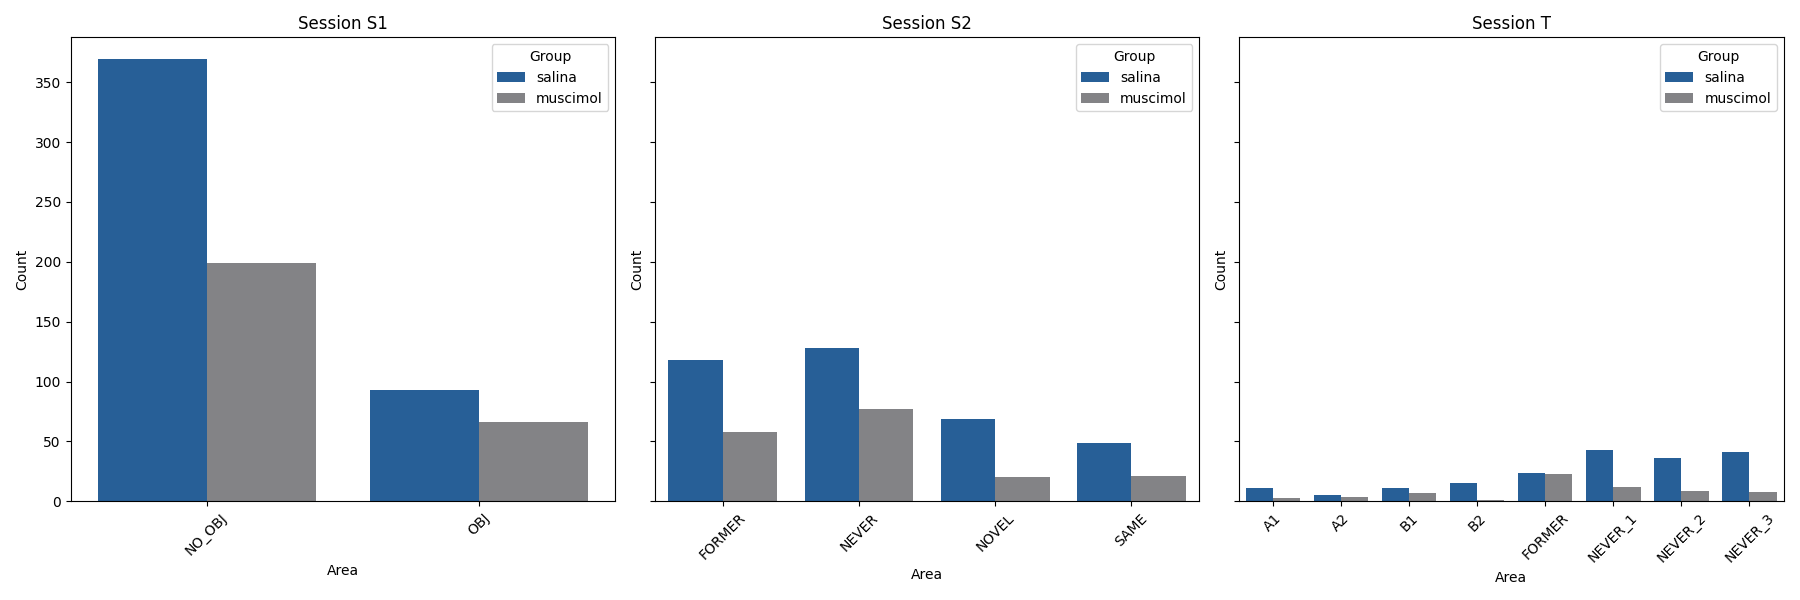
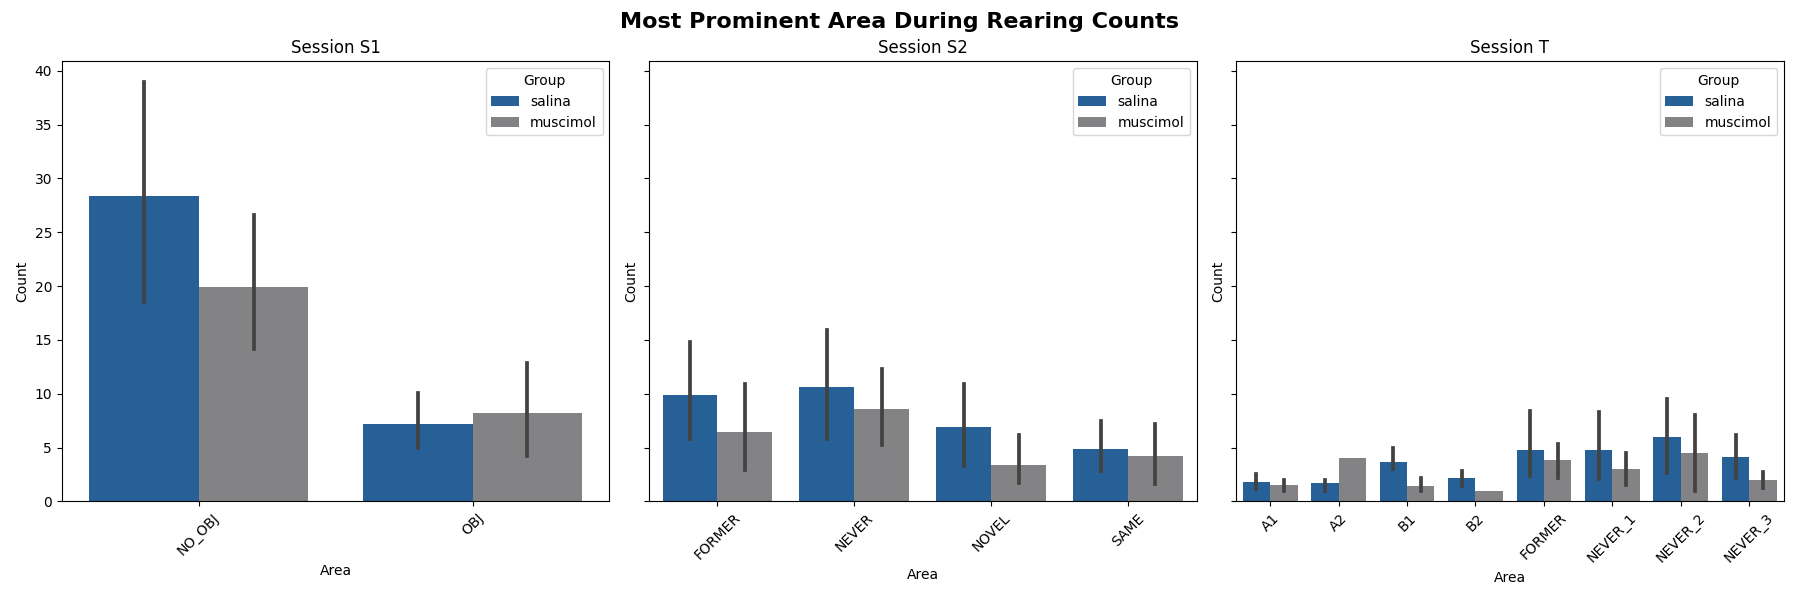
analysis

diff --git a/scripts/rearing_zone/rearing_zone.py b/scripts/rearing_zone/rearing_zone.py
@@ -4,10 +4,15 @@ import numpy as np
 import matplotlib.pyplot as plt
 import seaborn as sns
 from scripts.utils import load_data, get_area_and_direction_columns, fig_path, session_types, get_rearing, groups, group_areas_and_directions
-from scripts.rearing_zone.plots import plot_rearing_episode, plot_mean_duration, plot_sum_duration, plot_total_episodes, plot_area_during_rearing_counts
+from scripts.rearing_zone.plots import (
+    plot_rearing_episode, plot_mean_duration, plot_sum_duration, plot_total_episodes, 
+    plot_area_during_rearing_counts, plot_area_during_rearing_mean_duration, 
+    plot_area_after_rearing_durations
+)
 
 fps = 30
-after_rearing_window = 10 # seconds
+after_rearing_window_start = 2 # seconds
+after_rearing_window_time = 10 # seconds
 
 def calculate_durations(video_df):
     video_df = video_df.sort_values('frame').reset_index(drop=True)
@@ -31,44 +36,70 @@ def calculate_durations(video_df):
     ends = ends[valid_mask]
     if len(starts) == 0:
         return None
+
+    total_area_durations = video_df[area_columns].sum() / fps
     
     total_episodes = len(starts)
     durations = (ends - starts) / fps
-    
-    after_rearing_window_frames = after_rearing_window * fps
 
     area_during_rearing = []
-    area_during_rearing_ratio = []
+    # area_during_rearing_ratio = []
     for start, end in zip(starts, ends):
         episode_areas = video_df.loc[start:end-1, area_columns]
         area_sums = episode_areas.sum()
         most_prominent_area = area_sums.idxmax()
-        total_sum = area_sums.sum()
-        most_prominent_area_ratio = area_sums[most_prominent_area] / total_sum
         area_during_rearing.append(most_prominent_area)
-        area_during_rearing_ratio.append(most_prominent_area_ratio)
+        # total_sum = area_sums.sum()
+        # most_prominent_area_ratio = area_sums[most_prominent_area] / total_sum
+        # area_during_rearing_ratio.append(most_prominent_area_ratio)
     area_during_rearing = np.array(area_during_rearing)
     area_during_rearing_counts = pd.Series(area_during_rearing).value_counts()
+    
+    df_areas_during_rearing_durations = pd.DataFrame({'area': area_during_rearing, 'duration': durations})
+    area_during_rearing_mean_duration = df_areas_during_rearing_durations.groupby('area')['duration'].mean()
+    df_areas_during_rearing_durations_normalized = pd.DataFrame({'area': area_during_rearing, 'duration': durations / total_area_durations[area_during_rearing]})
+    area_during_rearing_mean_duration_normalized = df_areas_during_rearing_durations_normalized.groupby('area')['duration'].mean()
 
+    after_rearing_window_start_frames = after_rearing_window_start * fps
+    after_rearing_window_frames = after_rearing_window_time * fps
     # Considerar apenas os finais que não têm início de outro rearing na window
     valid_rearing_ends = []
     for end in ends:
-        window_start = end
-        window_end = end + after_rearing_window_frames
+        window_start = end + after_rearing_window_start_frames
+        window_end = window_start + after_rearing_window_frames
         next_starts = starts[starts >= window_start]
+        if window_end > len(video_df):
+            continue
         if len(next_starts) == 0 or next_starts[0] >= window_end:
             valid_rearing_ends.append(end)
     valid_rearing_ends = np.array(valid_rearing_ends)
 
+    after_rearing_area_sums = []
+    for end in valid_rearing_ends:
+        window_start = end + after_rearing_window_start_frames
+        window_end = window_start + after_rearing_window_frames
+        window_areas = video_df.loc[window_start:window_end-1, area_columns]
+        area_sums = window_areas.sum()
+        after_rearing_area_sums.append(area_sums)
+    
+    if len(after_rearing_area_sums) > 0:
+        area_after_rearing_durations = pd.DataFrame(after_rearing_area_sums) / fps
+        area_after_rearing_durations_normalized = (pd.DataFrame(after_rearing_area_sums) / fps) / total_area_durations
+    else:
+        area_after_rearing_durations = pd.DataFrame(dtype=float)
 
-    
-    # print(video_df[area_columns])
-    # print(video_df[starts])
 
-    # print(video_df.head())
-    
-    
-    return np.mean(durations), np.sum(durations), total_episodes, area_during_rearing_counts, rearing
+    return (
+        np.mean(durations),
+        np.sum(durations),
+        total_episodes,
+        area_during_rearing_counts,
+        area_during_rearing_mean_duration,
+        area_during_rearing_mean_duration_normalized,
+        area_after_rearing_durations,
+        area_after_rearing_durations_normalized,
+        rearing
+    )
     
 def process_video(group_df):
     result = calculate_durations(group_df)
@@ -76,12 +107,14 @@ def process_video(group_df):
     if result is None:
         return None
     
-    mean_dur, sum_dur, total_episodes, area_during_rearing_counts, rearing_arr = result
+    mean_dur, sum_dur, total_episodes, area_during_rearing_counts, area_during_rearing_mean_duration, area_after_rearing_durations, rearing_arr = result
     return pd.Series({
         'mean_duration': mean_dur,
         'sum_duration': sum_dur,
         'total_episodes': total_episodes,
         'area_during_rearing_counts': area_during_rearing_counts,
+        'area_during_rearing_mean_duration': area_during_rearing_mean_duration,
+        'area_after_rearing_durations': area_after_rearing_durations,
         'rearing_array': rearing_arr
     })
     
@@ -103,6 +136,8 @@ def main():
     plot_sum_duration(result)
     plot_total_episodes(result)
     plot_area_during_rearing_counts(result)
+    plot_area_during_rearing_mean_duration(result)
+    plot_area_after_rearing_durations(result)
     
 if __name__ == '__main__':
     main()

diff --git a/scripts/rearing_zone/plots.py b/scripts/rearing_zone/plots.py
@@ -71,7 +71,7 @@ def plot_area_during_rearing_counts(data):
             plot_data.append({'session': row['session'], 'group': row['group'], 'area': area, 'count': count})
     
     df_plot = pd.DataFrame(plot_data)
-    df_plot = df_plot.groupby(['session', 'group', 'area'], as_index=False)['count'].sum()
+    # df_plot = df_plot.groupby(['session', 'group', 'area'], as_index=False)['count'].sum()
     
     fig, axes = plt.subplots(1, len(session_types), figsize=(6*len(session_types), 6), sharey=True)
     if len(session_types) == 1:
@@ -90,6 +90,73 @@ def plot_area_during_rearing_counts(data):
             ax.tick_params(axis='x', rotation=45)
             ax.legend(title='Group')
     
-    plt.tight_layout()
+    plt.tight_layout(rect=[0, 0, 1, 0.96])
+    fig.suptitle('Most Prominent Area During Rearing Counts', fontsize=16, fontweight='bold', y=0.98)
     plt.savefig(os.path.join(base_fig_path, 'area_during_rearing_counts.png'))
     plt.close()
+
+def plot_area_during_rearing_mean_duration(data):
+    plot_data = []
+    for _, row in data.iterrows():
+        area_mean_durations = row['area_during_rearing_mean_duration']
+        for area, mean_duration in area_mean_durations.items():
+            plot_data.append({'session': row['session'], 'group': row['group'], 'area': area, 'mean_duration': mean_duration})
+    
+    df_plot = pd.DataFrame(plot_data)
+    # df_plot = df_plot.groupby(['session', 'group', 'area'], as_index=False)['mean_duration'].mean()
+    
+    fig, axes = plt.subplots(1, len(session_types), figsize=(6*len(session_types), 6), sharey=True)
+    if len(session_types) == 1:
+        axes = [axes]
+    
+    for ax, session in zip(axes, session_types):
+        session_data = df_plot[df_plot['session'] == session]
+        if len(session_data) > 0:
+            areas = sorted(session_data['area'].unique())
+            sns.barplot(data=session_data, x='area', y='mean_duration', hue='group',
+                       order=areas, hue_order=groups,
+                       palette=[colors['saline'], colors['muscimol']], ax=ax)
+            ax.set_title(f'Session {session.upper()}')
+            ax.set_xlabel('Area')
+            ax.set_ylabel('Mean Duration (s)')
+            ax.tick_params(axis='x', rotation=45)
+            ax.legend(title='Group')
+    
+    plt.tight_layout(rect=[0, 0, 1, 0.96])
+    fig.suptitle('Most Prominent Area During Rearing Mean Duration', fontsize=16, fontweight='bold', y=0.98)
+    plt.savefig(os.path.join(base_fig_path, 'area_during_rearing_mean_duration.png'))
+    plt.close()
+
+def plot_area_after_rearing_durations(data):
+    plot_data = []
+    for _, row in data.iterrows():
+        area_durations = row['area_after_rearing_durations']
+        for area in area_durations.columns:
+            durations = area_durations[area].values
+            for duration in durations:
+                plot_data.append({'session': row['session'], 'group': row['group'], 'area': area, 'duration': duration})
+    
+    df_plot = pd.DataFrame(plot_data)
+    
+    fig, axes = plt.subplots(1, len(session_types), figsize=(6*len(session_types), 6), sharey=True)
+    if len(session_types) == 1:
+        axes = [axes]
+    
+    for ax, session in zip(axes, session_types):
+        session_data = df_plot[df_plot['session'] == session]
+        if len(session_data) > 0:
+            areas = sorted(session_data['area'].unique())
+            sns.barplot(data=session_data, x='area', y='duration', hue='group',
+                       order=areas, hue_order=groups,
+                       palette=[colors['saline'], colors['muscimol']], ax=ax)
+            ax.set_title(f'Session {session.upper()}')
+            ax.set_xlabel('Area')
+            ax.set_ylabel('Duration (s)')
+            ax.tick_params(axis='x', rotation=45)
+            ax.legend(title='Group')
+
+    plt.tight_layout(rect=[0, 0, 1, 0.96])
+    fig.suptitle('Area After Rearing Duration', fontsize=16, fontweight='bold', y=0.98)
+    plt.savefig(os.path.join(base_fig_path, 'area_after_rearing_durations.png'))
+    plt.close()
+
